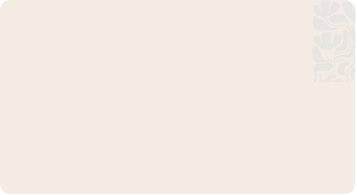
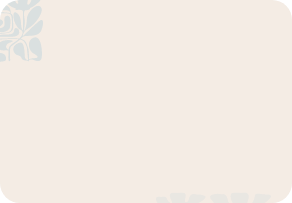
Tema 10

diff --git a/src/views/Tema10.vue b/src/views/Tema10.vue
@@ -1,11 +1,142 @@
 <template lang="pug">
-  .curso-main-container.pb-3
-    BannerInterno
-    .container.tarjeta.tarjeta--blanca.p-4.p-md-5.mb-5
-      .titulo-principal.color-acento-contenido
-        .titulo-principal__numero
-          span 10 
-        h1 Tema 10
+.curso-main-container.pb-3
+  BannerInterno
+  .container.tarjeta.tarjeta--blanca.p-4.p-md-5.mb-5
+    .titulo-principal.color-acento-contenido
+      .titulo-principal__numero
+        span 10 
+      h1 Gestión de activos de operación
+
+    .mt-5.pt-4
+      .fullwidth-bg.fullwidth-bg--1
+      img(data-aos="fade-up")(src="@/assets/curso/tema10/1.png", alt="").z-2
+      
+      .row.justify-content-center.z-2.mb-3
+        .col-lg-10.p-4.drop-shadow(data-aos="fade-down")
+          div.banner-text.shadow
+            p.mb-0 La gestión de activos de operación en el área de alojamiento integra las actividades relacionadas con el control, conservación, mantenimiento y administración de los elementos reutilizables necesarios para la prestación del servicio hotelero. Entre estos recursos se encuentran lencería, menaje, mobiliario, equipos operativos y demás elementos utilizados diariamente en habitaciones y áreas comunes del establecimiento.
+
+      .p-4.bg-secundario-s10.rounded-4
+        p.mb-0.text-center Para garantizar su adecuado funcionamiento y conservación, se desarrollan procesos de inventario, almacenamiento, inspección, clasificación, seguimiento y mantenimiento, aplicando procedimientos que favorecen el control de los recursos y contribuyen a prolongar su vida útil.
+
+    separador
+
+    #t_10_1.titulo-segundo.color-acento-contenido(data-aos="flip-up")
+      h2 10.1 Definición y clasificación
+
+    .row.justify-content-center.align-items-center.mb-4.mb-lg-5
+      .col-sm-8.col-lg-4
+        figure
+          img.mb-4.mb-lg-0(src="@/assets/curso/tema10/2.png", alt="" data-aos="zoom-in-down")
+      .col-lg-8
+        .p-4.bg-acento-contenido-a10.rounded-4.mb-3
+          p.mb-0 Los activos de operación son todos los elementos necesarios para el montaje de la habitación y el servicio al huésped que no se consumen con el primer uso, sino que se lavan, desinfectan y reutilizan. Su control es vital para el ama de Llaves, ya que su escasez impide la venta de habitaciones.
+        
+    .bg-title.bg-title--lg.p-3.rounded-5.pe-5.mb-4(data-aos="fade-down-right")
+      h5.mb-0 Tipos de activos de operación
+
+    .p-4.bg-secundario-s5.rounded-4.mb-4
+      p.mb-0.text-center Se clasifican según su naturaleza y el área de uso:
+
+    .row.justify-content-center.align-items-stretch.mb-5
+      .col-sm-6.col-lg-5.col-xl-3.mb-4.mb-xl-0
+        .tarjeta.bg-img.bg-img--7.p-4.h-100
+          h4.text-center Lencería (blancos): 
+          p.mb-0.text-center sábanas, fundas, protectores de colchón, edredones (#[em duvets]), toallas (cuerpo, manos, facial, pie de baño) y batas.
+      .col-sm-6.col-lg-5.col-xl-3.mb-4.mb-xl-0
+        .tarjeta.bg-img.bg-img--7.p-4.h-100
+          h4.text-center Menaje y cristalería: 
+          p.mb-0.text-center Vasos, tazas, platos de minibar, termos y bandejas.
+      .col-sm-6.col-lg-5.col-xl-3.mb-4.mb-sm-0
+        .tarjeta.bg-img.bg-img--7.p-4.h-100
+          h4.text-center Elementos de confort: 
+          p.mb-0.text-center Almohadas, mantas adicionales, cojines decorativos y pies de cama.
+      .col-sm-6.col-lg-5.col-xl-3
+        .tarjeta.bg-img.bg-img--7.p-4.h-100
+          h4.text-center Accesorios de habitación: 
+          p.mb-0.text-center Ganchos de ropa (perchas), cubetas de hielo, secadores de pelo y planchas.
+
+    .bg-title.bg-title--lg.p-3.rounded-5.pe-5.mb-4(data-aos="fade-down-right")
+      h5.mb-0 Ficha técnica de activos
+
+    .p-4.bg-acento-contenido-a10.rounded-4.mb-5
+      p.mb-0.text-center Para garantizar la durabilidad y la estandarización, cada activo debe cumplir con especificaciones técnicas de compra y mantenimiento.
+
+    .row.justify-content-center
+      .col-xl-10
+        .titulo-sexto.color-acento-contenido.mb-4
+          h5 Tabla 11.
+          span Especificaciones técnicas de activos de operación
+        .tabla-a.color-acento-contenido.tabla-a--text-left.mb-5
+          table
+            caption Nota. SENA, (2026).
+            thead
+              tr(style="background-color: #F0F6F9")
+                th Activo
+                th(colspan="2") Especificación técnica (ejemplo)
+                th(colspan="2") Criterio de calidad
+            tbody
+              tr
+                td Sábana blanca.
+                td(colspan="2") Percal 250 hilos, 60 % algodón / 40 % poliéster.
+                td(colspan="2") Resistencia a 200 lavados, sin pilling (moteo).
+              tr
+                td Toalla cuerpo.
+                td(colspan="2") Gramaje de 550 g/m², 100 % algodón     ring-spun.
+                td(colspan="2") Alta absorción, suavidad al tacto, doble costura.
+              tr
+                td Almohada.
+                td(colspan="2") Relleno de fibra siliconada virgen, 700 gr.
+                td(colspan="2") Hipoalergénica, recupera forma (resiliencia).
+              tr
+                td Vaso de vidrio.
+                td(colspan="2") Vidrio templado, capacidad 12 oz.
+                td(colspan="2") Transparencia total, resistente a choques térmicos.
+
+
+    .bg-title.bg-title--lg.p-3.rounded-5.pe-5.mb-4(data-aos="fade-down-right")
+      h5.mb-0 Procedimiento de manejo y reposición
+
+    .p-4.bg-acento-contenido-a10.rounded-4.mb-4
+      p.mb-0.text-center Para que el hotel funcione sin contratiempos, se aplica el concepto de "<strong><em>Par Stock</em></strong>" (inventario base). Generalmente, un hotel maneja de 3 a 5 juegos de lencería por habitación (uno puesto, uno sucio en lavandería, uno limpio en estante).
+
+    .bg-title.bg-title--lg.p-3.rounded-5.pe-5.mb-4(data-aos="fade-down-right")
+      h5.mb-0 Procedimiento de reposición:
+
+    .row.mb-5.justify-content-center.align-items-stretch
+      .col-sm-6.col-lg-5.col-xl-3.mb-3.mb-xl-0
+        .tarjeta-avatar-b.align-items-center(data-aos="fade-up").h-100
+          .tarjeta-avatar-b__img.align-items-baseline.h-100
+            img(src='@/assets/curso/tema10/3.svg' alt='')
+          .tarjeta.bg-secundario-s5.h-100
+            .ps-1.py-4.pe-4
+              h5 Conteo en la salida: 
+              p.mb-0 Al hacer el aseo, el auxiliar de habitaciones verifica que no falten activos (ej. Toallas o ganchos).
+      .col-sm-6.col-lg-5.col-xl-3.mb-3.mb-xl-0
+        .tarjeta-avatar-b.align-items-center(data-aos="fade-down").h-100
+          .tarjeta-avatar-b__img.align-items-baseline.h-100
+            img(src='@/assets/curso/tema10/4.svg' alt='')
+          .tarjeta.bg-secundario-s5.h-100
+            .ps-1.py-4.pe-4
+              h5 Reporte de bajas: 
+              p.mb-0 Si una sábana está rota o manchada permanentemente, se retira de operación y se reporta como "baja".
+      .col-sm-6.col-lg-5.col-xl-3.mb-3.mb-xl-0
+        .tarjeta-avatar-b.align-items-center(data-aos="fade-up").h-100
+          .tarjeta-avatar-b__img.align-items-baseline.h-100
+            img(src='@/assets/curso/tema10/5.svg' alt='')
+          .tarjeta.bg-secundario-s5.h-100
+            .ps-1.py-4.pe-4
+              h5 Reposición por #[em stock]: 
+              p.mb-0 El ama de llaves autoriza la salida de activos nuevos del almacén para mantener el par stock completo.
+      .col-sm-6.col-lg-5.col-xl-3.mb-3.mb-xl-0
+        .tarjeta-avatar-b.align-items-center(data-aos="fade-up").h-100
+          .tarjeta-avatar-b__img.align-items-baseline.h-100
+            img(src='@/assets/curso/tema10/6.svg' alt='')
+          .tarjeta.bg-secundario-s5.h-100
+            .ps-1.py-4.pe-4
+              h5 Rotación: 
+              p.mb-0 Para que el desgaste sea uniforme, la lencería que sale de lavandería debe colocarse debajo de la que ya está en el estante (uso equitativo).
+      
   
   
   </template>

diff --git a/src/views/Tema9.vue b/src/views/Tema9.vue
@@ -1,0 +1,30 @@
+<template lang="pug">
+.curso-main-container.pb-3
+  BannerInterno
+  .container.tarjeta.tarjeta--blanca.p-4.p-md-5.mb-5
+    .titulo-principal.color-acento-contenido
+      .titulo-principal__numero
+        span 9 
+      h1 Gestión técnica de suministros
+
+  
+</template>
+
+<script>
+export default {
+  name: 'Tema9', // Tema 9
+  data: () => ({
+    // variables de vue
+  }),
+  mounted() {
+    this.$nextTick(() => {
+      this.$aosRefresh()
+    })
+  },
+  updated() {
+    this.$aosRefresh()
+  },
+}
+</script>
+
+<style lang="sass"></style>